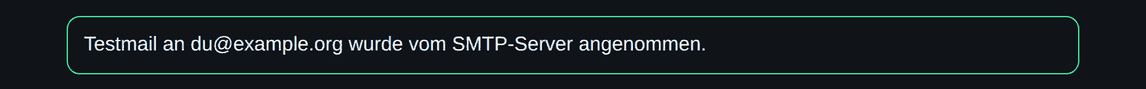
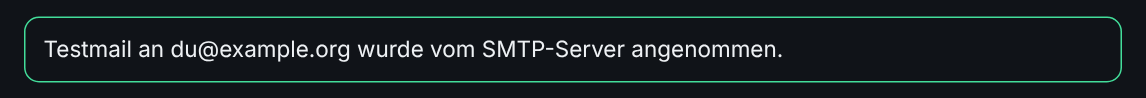
docs(admin): retake the admin-page figures with the session bar
The three figures in docs/admin/admin-page.md came from the token era
(Argon2id hash, SQLite accounts, no session bar). Retaken from a real
server with dummy data: complete configuration, passkey step-up, SMTP
check and test mail against a local relay. The captions now match the
legend in the figure (hover or tap shows a value, never a secret).

The session bar got 10px below it: wrapped on mid widths, the Abmelden
button sat directly on the summary line.

Claude-Session: https://claude.ai/code/session_01RMMUxihmPA5c8VmHpiNq8X

diff --git a/game/AdminPage.js b/game/AdminPage.js
@@ -157,7 +157,7 @@ table.pstuck tr{grid-template-columns:1fr auto auto}table.pstuck td.name{grid-co
 td.rate{min-width:0}tr.wall{background:rgba(245,197,66,.07);box-shadow:inset 3px 0 0 var(--warn)}tr.wall td{background:none}tr.wall td:first-child{box-shadow:none}}
 [hidden]{display:none!important}
 /* Who is signed in, until when, and the way out */
-.who{display:flex;flex-wrap:wrap;align-items:center;justify-content:space-between;gap:6px 16px;color:var(--muted);font-size:.9em}
+.who{display:flex;flex-wrap:wrap;align-items:center;justify-content:space-between;gap:6px 16px;margin-bottom:10px;color:var(--muted);font-size:.9em}
 .who b{color:var(--text)}.whoText{display:flex;flex-wrap:wrap;gap:0 12px;min-width:0}.whoActions{display:flex;align-items:center;gap:16px}.who form{padding:0}
 .badge.role{color:var(--accent);border-color:rgba(47,214,176,.45)}
 /* Protokoll: newest first, pages of 50 */

diff --git a/docs/admin/admin-page.md b/docs/admin/admin-page.md
@@ -47,7 +47,7 @@ Only for accounts with the **admin role** (see
 
 | Tab | What it shows / does |
 | --- | --- |
-| **Konfiguration** | The report above with **every variable behind each entry** (green = set, grey = not set, default in use; values are never shown), the last SMTP check, buttons **Verbindung prüfen** (SMTP login without sending) and **Testmail senden**. Configuration itself still lives in your compose file. |
+| **Konfiguration** | The report above with **every variable behind each entry** (green = set, grey = not set, default in use; hover or tap shows the value, never that of a password or token), the last SMTP check, buttons **Verbindung prüfen** (SMTP login without sending) and **Testmail senden**. Configuration itself still lives in your compose file. |
 | **Benutzer** | All registered accounts: name, **e-mail**, how they sign in (passkeys / password), confirmed / link open / link expired, registration date, XP, games, wins, season XP. **Mail neu senden** (unconfirmed accounts: a fresh code and confirmation link), **Anmelde-Link senden** (confirmed accounts: a 15-minute sign-in link, e.g. after a lost passkey) and **Löschen** (two steps: question, then the real button). Admin accounts carry an **Admin** badge and cannot be deleted here. |
 | **Monitoring** | Current values (app container RAM and CPU against its limits, event-loop delay, players, host RAM, free space on the data volume) and **history charts** like a hosting console: ranges 1 h / 24 h / 7 days / 30 days, cursor synced across all charts, drag to zoom, double-click to reset. Updates every 15 s. |
 | **Festhänger** | Where players get stuck, with a switch per mode. **Kartenhaus**: the month floor by floor (players, win rate, abandons, median turns, the floor where the curve breaks), the players stuck on a floor with their most common reason, and any player's last attempts. **Rätsel**: the last 7–90 days by puzzle kind and by day (solve and give-up rate, checks until solved, the most common mistake, the hardest days) and the players stuck on a day. **Tutorial**: the lessons as a funnel (reached, completed, where players stop, time, refusals, the lesson where it breaks) and how tutorials end early. See {doc}`play-attempts`. |
@@ -60,11 +60,12 @@ When everything is set up, every entry is green and each one lists the
 variables it is built from:
 
 ```{figure} img/admin-overview.png
-:alt: Admin page, configuration section: every entry with a green check mark and its variables
+:alt: Admin area, Konfiguration tab: header with the signed-in admin and Abmelden, every entry with a green check mark and its variables
 :width: 100%
 
-The configuration section of a complete setup. Green variables are set, grey
-ones are not set and use their default. Values are never shown.
+The Konfiguration tab of a complete setup, below the header with the signed-in
+admin. Green variables are set, grey ones are not set and use their default.
+Hovering or tapping one shows its value, never that of a password or token.
 ```
 
 ### Check the mail setup
